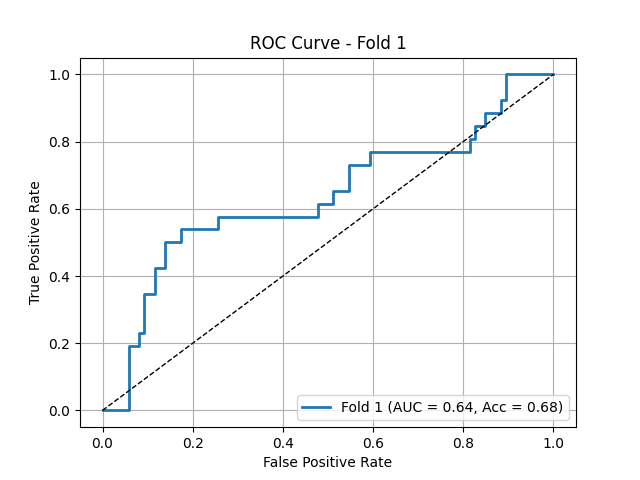
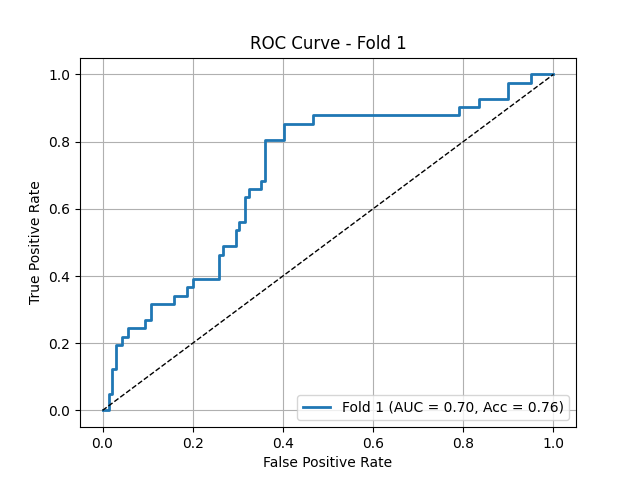
combined score based model save

diff --git a/train_onlytorch.py b/train_onlytorch.py
@@ -72,6 +72,7 @@ for fold in range(k_fold):
 
     optimizer = torch.optim.Adam(model.parameters(), lr=1e-3, weight_decay=1e-5)
     best_val_auc = -1
+    best_combined_score = -1 
     best_model_state = None 
     
     # Metrics
@@ -153,6 +154,8 @@ for fold in range(k_fold):
         # ROC
         fpr, tpr, roc_auc = plot_roc_curve(y_true.cpu().numpy(), y_probs.cpu().numpy(), fold_idx=fold + 1)
 
+        combined_score = 0.2*val_wacc + 0.3* val_accuracy + 0.5* roc_auc 
+
         # Log all metrics
         wandb.log({
             f"val/roc_auc_fold_{fold}": val_auc,
@@ -162,8 +165,12 @@ for fold in range(k_fold):
             "epoch": epoch
         })
 
-        if roc_auc > best_val_auc:
-            best_val_auc = roc_auc
+        # if roc_auc > best_val_auc:
+        #     best_val_auc = roc_auc
+        #     best_model_state = model.state_dict()
+
+        if combined_score > best_combined_score:
+            best_combined_score = roc_auc
             best_model_state = model.state_dict()
 
     # --- Load Best Model and Test ---
